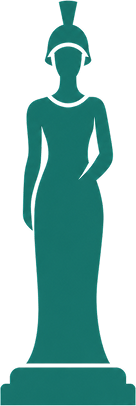
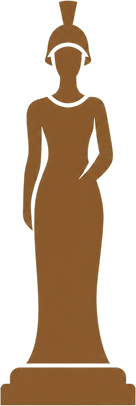
refactor: update application color theme and branding accents

diff --git a/frontend/src/index.css b/frontend/src/index.css
@@ -19,16 +19,16 @@
   --sidebar-active: #262626;
   --sidebar-text: #f5f5f5;
   --sidebar-muted: #a3a3a3;
-  --sidebar-accent: #5eead4;
+  --sidebar-accent: #d6a76f;
   --text: #0f172a;
   --text-secondary: #475569;
   --text-muted: #64748b;
   --border: #e2e8f0;
   --control-border: #64748b;
-  --accent: #0f766e;
-  --accent-hover: #115e59;
+  --accent: #8a5a2c;
+  --accent-hover: #6e4520;
   --accent-foreground: #ffffff;
-  --selected: #eef6f5;
+  --selected: #f5efe8;
   --danger-text: #b42318;
   --danger-bg: #fef3f2;
   --warning-text: #92400e;
@@ -37,8 +37,8 @@
   --info-bg: #eff6ff;
   --success-text: #166534;
   --success-bg: #f0fdf4;
-  --ready-text: #115e59;
-  --ready-bg: #f0fdfa;
+  --ready-text: #6e4520;
+  --ready-bg: #f8f2ea;
   --neutral-text: #334155;
   color-scheme: light;
 }
@@ -51,16 +51,16 @@
   --sidebar-active: #292929;
   --sidebar-text: #f5f5f5;
   --sidebar-muted: #a3a3a3;
-  --sidebar-accent: #5eead4;
+  --sidebar-accent: #d6a76f;
   --text: #f5f5f5;
   --text-secondary: #d4d4d4;
   --text-muted: #a3a3a3;
   --border: #363636;
   --control-border: #737373;
-  --accent: #2dd4bf;
-  --accent-hover: #5eead4;
-  --accent-foreground: #042f2e;
-  --selected: #0f2b2a;
+  --accent: #d1a374;
+  --accent-hover: #e2bd92;
+  --accent-foreground: #2a1a0b;
+  --selected: #2d241b;
   --danger-text: #fca5a5;
   --danger-bg: #3a1214;
   --warning-text: #fcd34d;
@@ -69,8 +69,8 @@
   --info-bg: #142046;
   --success-text: #86efac;
   --success-bg: #0a2e1a;
-  --ready-text: #5eead4;
-  --ready-bg: #062a28;
+  --ready-text: #e2bd92;
+  --ready-bg: #2a2016;
   --neutral-text: #d4d4d4;
   color-scheme: dark;
 }
@@ -92,7 +92,7 @@
   --neutral-text: #cbd5e1;
 }
 
-/* Laurel: deep green-black around the brand's statue green */
+/* Laurel: deep green-black with the brand's bronze accent */
 .dark[data-theme="laurel"] {
   --canvas: #0b1a16;
   --surface: #11241e;
@@ -101,17 +101,17 @@
   --sidebar-active: #183129;
   --sidebar-text: #eef3f0;
   --sidebar-muted: #8fb0a4;
-  --sidebar-accent: #6ee0c2;
+  --sidebar-accent: #d6a76f;
   --text: #eef3f0;
   --text-secondary: #c6dbd3;
   --text-muted: #8fb0a4;
   --border: #21403a;
   --control-border: #5a8075;
-  --accent: #3cc9a6;
-  --accent-hover: #6ee0c2;
-  --accent-foreground: #04261d;
+  --accent: #d1a374;
+  --accent-hover: #e2bd92;
+  --accent-foreground: #2a1a0b;
   --selected: #123a31;
-  --ready-text: #6ee0c2;
+  --ready-text: #e2bd92;
   --ready-bg: #0b2b24;
   --neutral-text: #c6dbd3;
 }

diff --git a/mobile/src/lib/theme.ts b/mobile/src/lib/theme.ts
@@ -12,16 +12,16 @@ const light = {
   sidebarActive: '#262626',
   sidebarText: '#f5f5f5',
   sidebarMuted: '#a3a3a3',
-  sidebarAccent: '#5eead4',
+  sidebarAccent: '#d6a76f',
   fg: '#0f172a',
   fg2: '#475569',
   fg3: '#64748b',
   line: '#e2e8f0',
   control: '#64748b',
-  accent: '#0f766e',
-  accentHover: '#115e59',
+  accent: '#8a5a2c',
+  accentHover: '#6e4520',
   onAccent: '#ffffff',
-  selected: '#eef6f5',
+  selected: '#f5efe8',
   danger: '#b42318',
   dangerBg: '#fef3f2',
   warning: '#92400e',
@@ -30,8 +30,8 @@ const light = {
   infoBg: '#eff6ff',
   success: '#166534',
   successBg: '#f0fdf4',
-  ready: '#115e59',
-  readyBg: '#f0fdfa',
+  ready: '#6e4520',
+  readyBg: '#f8f2ea',
   neutral: '#334155',
 }
 
@@ -45,16 +45,16 @@ const graphite: Colors = {
   sidebarActive: '#292929',
   sidebarText: '#f5f5f5',
   sidebarMuted: '#a3a3a3',
-  sidebarAccent: '#5eead4',
+  sidebarAccent: '#d6a76f',
   fg: '#f5f5f5',
   fg2: '#d4d4d4',
   fg3: '#a3a3a3',
   line: '#363636',
   control: '#737373',
-  accent: '#2dd4bf',
-  accentHover: '#5eead4',
-  onAccent: '#042f2e',
-  selected: '#0f2b2a',
+  accent: '#d1a374',
+  accentHover: '#e2bd92',
+  onAccent: '#2a1a0b',
+  selected: '#2d241b',
   danger: '#fca5a5',
   dangerBg: '#3a1214',
   warning: '#fcd34d',
@@ -63,8 +63,8 @@ const graphite: Colors = {
   infoBg: '#142046',
   success: '#86efac',
   successBg: '#0a2e1a',
-  ready: '#5eead4',
-  readyBg: '#062a28',
+  ready: '#e2bd92',
+  readyBg: '#2a2016',
   neutral: '#d4d4d4',
 }
 
@@ -96,17 +96,17 @@ const laurel: Colors = {
   sidebarActive: '#183129',
   sidebarText: '#eef3f0',
   sidebarMuted: '#8fb0a4',
-  sidebarAccent: '#6ee0c2',
+  sidebarAccent: '#d6a76f',
   fg: '#eef3f0',
   fg2: '#c6dbd3',
   fg3: '#8fb0a4',
   line: '#21403a',
   control: '#5a8075',
-  accent: '#3cc9a6',
-  accentHover: '#6ee0c2',
-  onAccent: '#04261d',
+  accent: '#d1a374',
+  accentHover: '#e2bd92',
+  onAccent: '#2a1a0b',
   selected: '#123a31',
-  ready: '#6ee0c2',
+  ready: '#e2bd92',
   readyBg: '#0b2b24',
   neutral: '#c6dbd3',
 }

diff --git a/frontend/src/pages/Analytics.tsx b/frontend/src/pages/Analytics.tsx
@@ -142,7 +142,7 @@ export default function Analytics() {
               key={r}
               aria-pressed={range === r}
               onClick={() => setQ(prev => { const n = new URLSearchParams(prev); if (r === '24h') n.delete('range'); else n.set('range', r); return n })}
-              className={cx('h-8 cursor-pointer rounded-[4px] px-3 text-sm motion-control', range === r ? 'bg-selected font-medium text-fg' : 'text-fg-2 hover:text-fg')}
+              className={cx('h-8 cursor-pointer rounded-[4px] px-3 text-sm motion-control', range === r ? 'bg-accent font-medium text-on-accent' : 'text-fg-2 hover:text-fg')}
             >{RANGES[r].label}</button>
           ))}
         </div>

diff --git a/frontend/src/components/AddByLink.tsx b/frontend/src/components/AddByLink.tsx
@@ -1,4 +1,3 @@
-import { LinkSimple } from '@phosphor-icons/react'
 import { useState, type FormEvent } from 'react'
 import { api } from '../lib/api'
 import type { Post } from '../lib/mock'
@@ -35,7 +34,7 @@ export function AddByLink({ defaultCompany }: { defaultCompany?: string }) {
 
   return (
     <>
-      <Button onClick={() => setOpen(true)} disabled={!companies.length}><LinkSimple size={16} />Add by link</Button>
+      <Button onClick={() => setOpen(true)} disabled={!companies.length}>Add by link</Button>
       <Dialog open={open} onClose={close} title="Add a post by link">
         {added ? (
           <div className="space-y-4">
